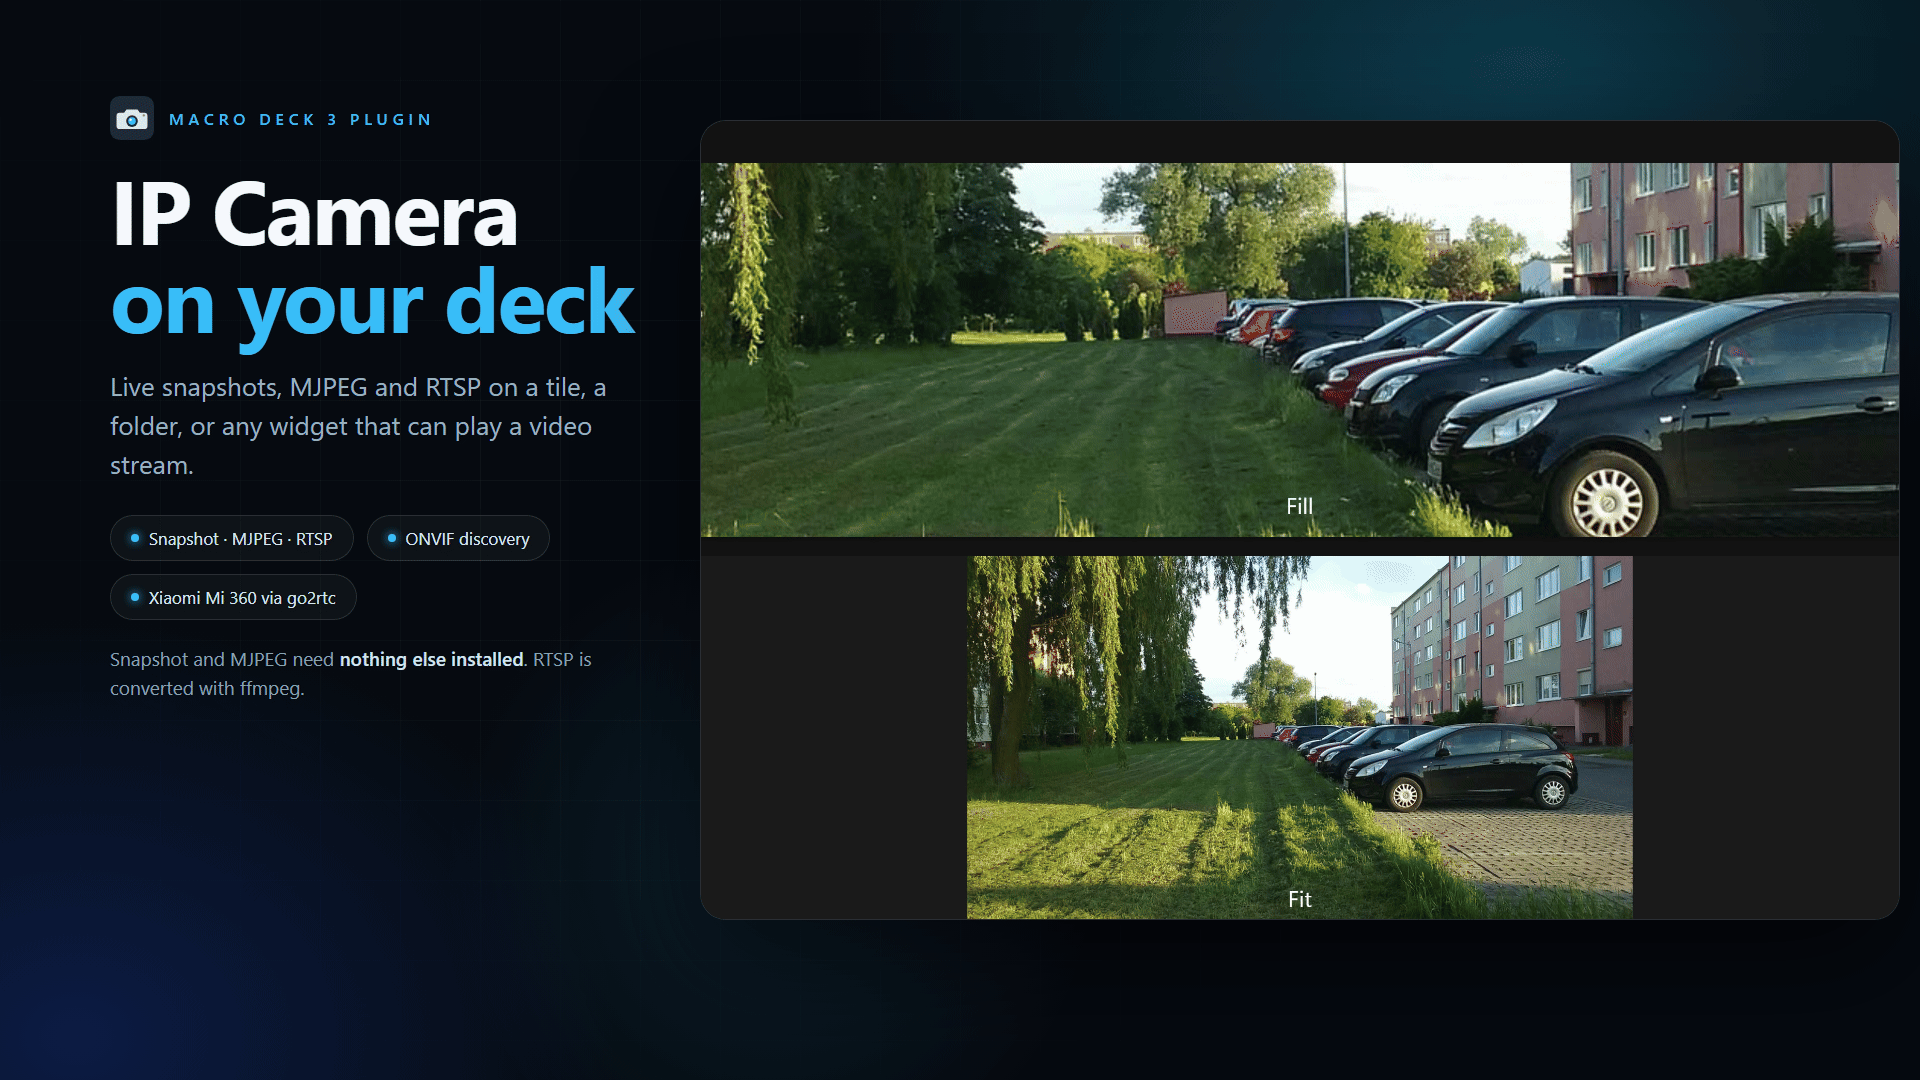
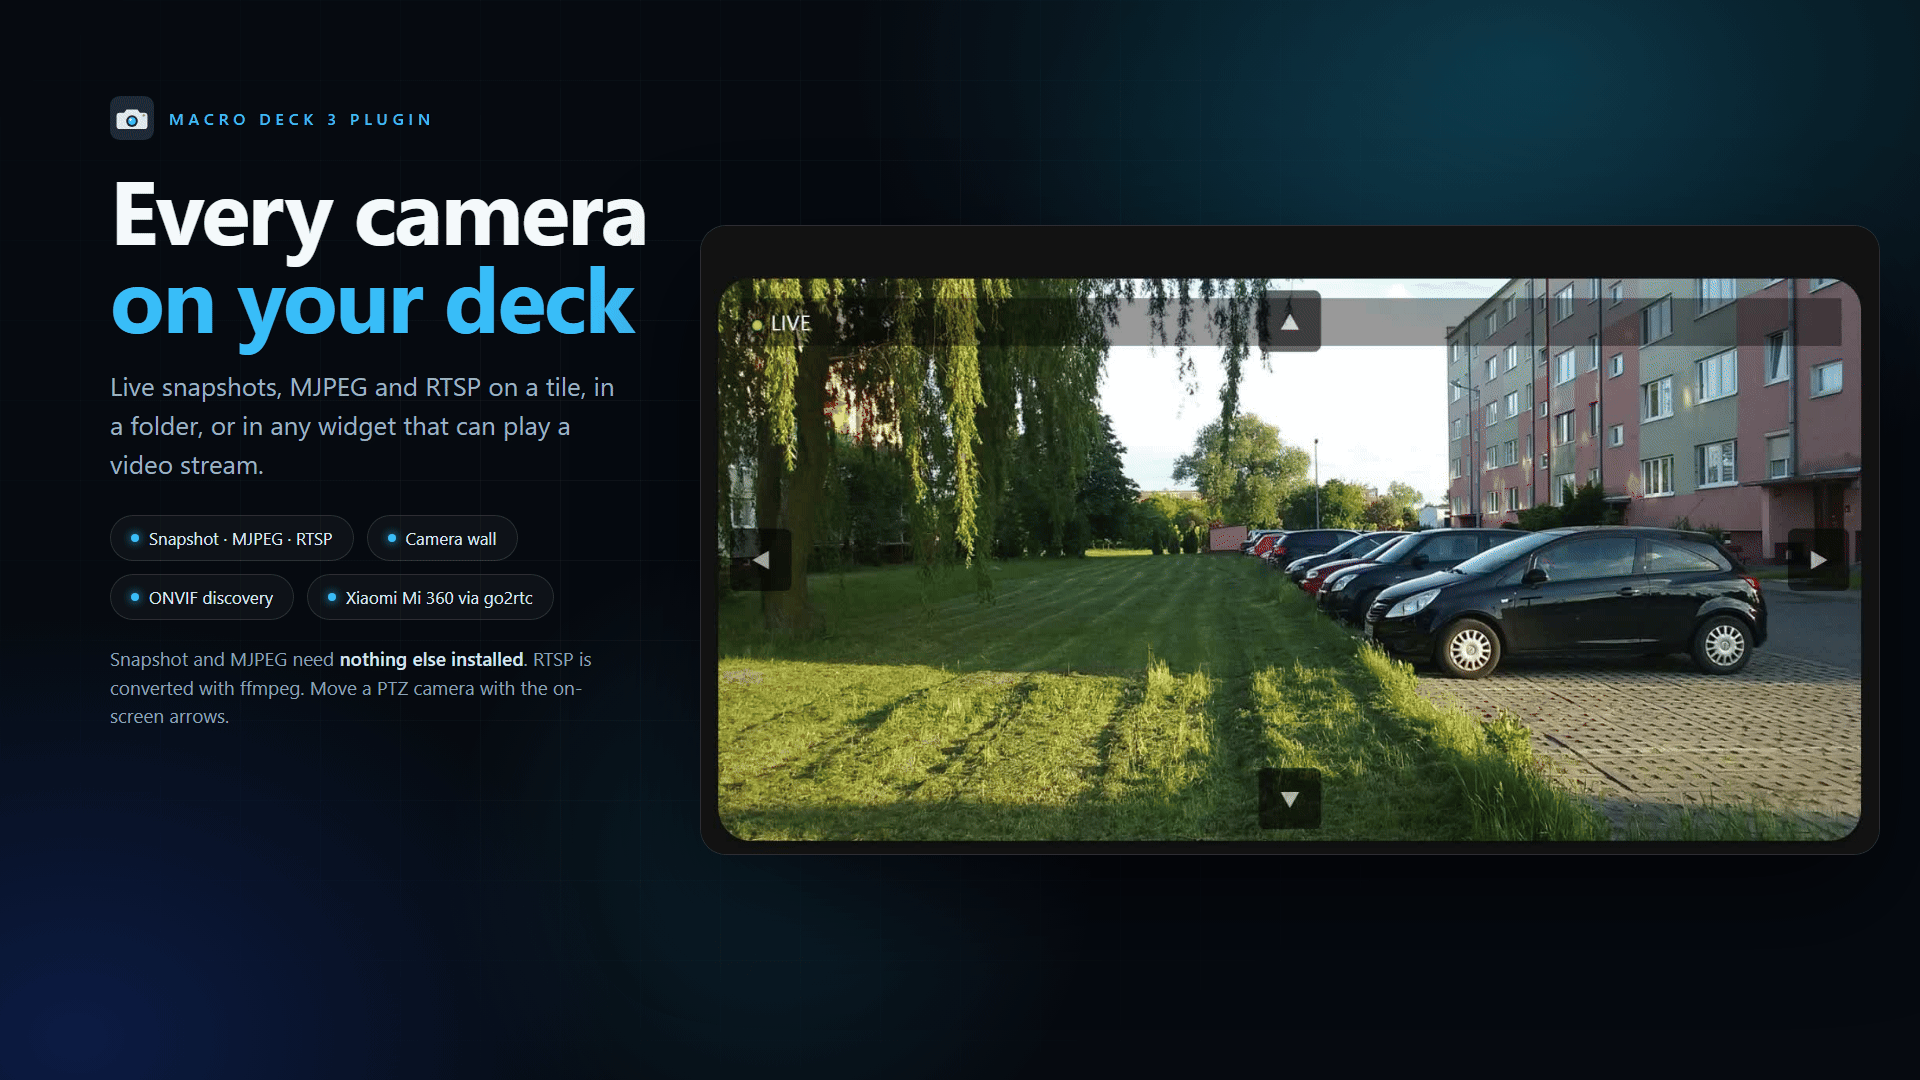
Refresh the Store copy and screenshots
The listing now covers the camera wall, split and four-camera tiles, movement arrows and the press script route, and drops the removed integration page. The screenshots are new captures of the camera tile, the enlarged window with arrows, a camera wall and a split tile, using the local stock test streams.

diff --git a/store/src/01-hero.html b/store/src/01-hero.html
@@ -12,18 +12,19 @@
 
 <div style="position:absolute;left:110px;top:96px">
   <div class="kicker"><img src="../../src/IpCamera/Assets/icon.svg" alt="">Macro Deck 3 plugin</div>
-  <h1>IP Camera<br><span class="accent">on your deck</span></h1>
-  <p class="sub" style="width:520px">Live snapshots, MJPEG and RTSP on a tile, a folder, or any widget that can play a video stream.</p>
+  <h1>Every camera<br><span class="accent">on your deck</span></h1>
+  <p class="sub" style="width:520px">Live snapshots, MJPEG and RTSP on a tile, in a folder, or in any widget that can play a video stream.</p>
   <div class="pills" style="width:540px">
     <span class="pill"><i></i>Snapshot &middot; MJPEG &middot; RTSP</span>
+    <span class="pill"><i></i>Camera wall</span>
     <span class="pill"><i></i>ONVIF discovery</span>
     <span class="pill"><i></i>Xiaomi Mi 360 via go2rtc</span>
   </div>
-  <p class="note" style="width:520px">Snapshot and MJPEG need <b>nothing else installed</b>. RTSP is converted with ffmpeg.</p>
+  <p class="note" style="width:520px">Snapshot and MJPEG need <b>nothing else installed</b>. RTSP is converted with ffmpeg. Move a PTZ camera with the on-screen arrows.</p>
 </div>
 
-<div class="shot" style="left:700px;top:120px;width:1200px;height:800px">
-  <img src="img/deck.jpg" alt="Two camera widgets on a Macro Deck deck, one filling its tile and one fitting the frame">
+<div class="shot" style="left:700px;top:225px;width:1180px;height:630px">
+  <img src="img/hero-crop.jpg" alt="A camera widget filling a Macro Deck tile, with a live status and movement arrows">
 </div>
 </body>
 </html>

diff --git a/store/src/03-modal.html b/store/src/03-modal.html
@@ -11,13 +11,13 @@
 
 <div style="position:absolute;left:110px;top:100px;width:460px">
   <div class="kicker"><img src="../../src/IpCamera/Assets/icon.svg" alt="">Large view</div>
-  <h1 class="compact">Tap to see<br><span class="accent">it larger</span></h1>
+  <h1 class="compact">Tap for<br><span class="accent">a closer look</span></h1>
   <p class="sub">A short press opens the same stream in Macro Deck's modal.</p>
-  <p class="note">Your own Short Press action still wins, and the tile keeps its live preview in the background.</p>
+  <p class="note">The window keeps the tile's movement arrows, so a PTZ camera stays controllable while you watch.</p>
 </div>
 
-<div class="shot" style="left:660px;top:105px;width:1150px;height:870px">
-  <img src="img/modal.jpg" alt="The camera stream opened in Macro Deck's modal over a dimmed deck">
+<div class="shot" style="left:660px;top:130px;width:1160px;height:812px">
+  <img src="img/modal.jpg" style="object-fit:contain" alt="The camera stream opened in Macro Deck's modal with movement arrows">
 </div>
 </body>
 </html>

diff --git a/store/src/05-four.html b/store/src/05-four.html
@@ -1,0 +1,23 @@
+<!DOCTYPE html>
+<html lang="en">
+<head>
+<meta charset="utf-8">
+<link rel="stylesheet" href="slides.css">
+</head>
+<body>
+<div class="bg"></div>
+<div class="grid"></div>
+<div class="glow" style="width:1000px;height:1000px;left:900px;top:-220px"></div>
+
+<div style="position:absolute;left:110px;top:100px;width:430px">
+  <div class="kicker"><img src="../../src/IpCamera/Assets/icon.svg" alt="">One tile</div>
+  <h1 class="compact">One, two<br><span class="accent">or four</span></h1>
+  <p class="sub">Split the tile, or show four cameras at once.</p>
+  <p class="note">Each cell has its own stream, status overlay and movement arrows. A press opens that cell's camera.</p>
+</div>
+
+<div class="shot" style="left:610px;top:110px;width:1210px;height:864px">
+  <img src="img/split-crop.jpg" alt="A Macro Deck camera widget split in two live camera cells with movement arrows">
+</div>
+</body>
+</html>

diff --git a/store/src/04-wall.html b/store/src/04-wall.html
@@ -1,0 +1,23 @@
+<!DOCTYPE html>
+<html lang="en">
+<head>
+<meta charset="utf-8">
+<link rel="stylesheet" href="slides.css">
+</head>
+<body>
+<div class="bg"></div>
+<div class="grid"></div>
+<div class="glow" style="width:1000px;height:900px;left:1050px;top:-200px"></div>
+
+<div style="position:absolute;left:110px;top:100px;width:520px">
+  <div class="kicker"><img src="../../src/IpCamera/Assets/icon.svg" alt="">Camera wall</div>
+  <h1 class="compact">Fill a whole<br><span class="accent">folder</span></h1>
+  <p class="sub">One camera edge to edge, or up to four in a wall, without placing widgets.</p>
+  <p class="note">The wall keeps the same arrows, live status and fill or fit choice as a tile.</p>
+</div>
+
+<div class="shot" style="left:690px;top:180px;width:1130px;height:758px">
+  <img src="img/wall-crop.jpg" alt="A camera filling a Macro Deck folder with movement arrows">
+</div>
+</body>
+</html>

diff --git a/store/src/02-setup.html b/store/src/02-setup.html
@@ -13,7 +13,7 @@
   <div class="kicker"><img src="../../src/IpCamera/Assets/icon.svg" alt="">Camera setup</div>
   <h1 class="compact">Add a camera<br><span class="accent">in a minute</span></h1>
   <p class="sub">Pick the source, paste the URL, and choose the frame rate and size.</p>
-  <p class="note">The setup fetches a live frame before it saves. A wrong host, a rejected password or an HTML page gets a <b>clear reason on the URL field</b>.</p>
+  <p class="note">The setup fetches a live frame before it saves. A wrong host, a rejected password or an HTML page gets a <b>clear reason on the URL field</b>. Movement controls and the Xiaomi token sit in the advanced step.</p>
 </div>
 
 <div class="shot" style="left:990px;top:40px;width:900px;height:1010px">

diff --git a/store/listing.md b/store/listing.md
@@ -8,8 +8,8 @@ IP Camera
 
 ## Short description
 
-Live IP camera tiles for Macro Deck: snapshot, MJPEG, RTSP and ONVIF, including the Xiaomi Mi 360
-through go2rtc.
+Live camera tiles and camera walls for Macro Deck: snapshot, MJPEG, RTSP and ONVIF, including the Xiaomi
+Mi 360 through go2rtc.
 
 ## Long description
 
@@ -36,19 +36,35 @@ of a tile that never plays.
 
 **Made for a deck**
 
-- Fill the tile or fit the whole frame.
+- One camera per tile, a split with two, or four cameras in one tile.
+- A camera wall that fills a whole folder with one camera or up to four.
+- Fill the cell or fit the whole frame.
 - A label, background, label colour, font and border through Macro Deck's standard appearance settings.
+- A live dot and the age of the last frame, or a reconnecting state when the camera drops out.
 - A short press opens the same stream in Macro Deck's modal.
-- Your own Short Press action wins over the default.
-- When a camera drops out, the tile says the camera is offline and reconnecting, and the integration
-  page offers Retry.
+
+**Move the camera from the deck**
+
+- Left, right, up and down arrows on each camera cell, with a transparency slider.
+- The enlarged window keeps the arrows, so a PTZ camera stays controllable while you watch.
+- Move, Stop and Night vision actions for ONVIF cameras and the Xiaomi Mi 360.
+- Macro Deck gives a tile press either to the controls in its tree or to its Short Press flow, never
+  both. The arrows therefore disable the tile's Short Press flow. To run actions and keep the arrows,
+  create a Macro Deck script and pick it as the widget's Press script; the plugin runs that script with
+  the pressed widget and the pressing client.
+
+**When a camera drops out**
+
+The tile says the camera is offline and reconnecting, and the plugin reports an integration issue with
+a Retry action. The stream recovers on its own when the camera answers again.
 
 **Xiaomi Mi 360**
 
 The Mi 360 does not expose RTSP or ONVIF. go2rtc can hold its P2P session and serve a normal MJPEG
 stream; point this plugin at that stream. Each connection needs an Internet round trip so go2rtc can
-fetch Xiaomi's encryption key. The video itself stays on the LAN. See the repository README for the
-go2rtc configuration.
+fetch Xiaomi's encryption key. The video itself stays on the LAN. Movement and night vision use the
+local miIO channel with the device token from Mi Home. See the repository README for the go2rtc
+configuration.
 
 **Requirements**
 
@@ -59,16 +75,17 @@ go2rtc configuration.
 **Network and privacy**
 
 The plugin connects only to the camera URLs you configure, plus a local go2rtc if you use one. It does
-not send camera data to any other service. The video relay listens on 127.0.0.1. Camera passwords are
-stored in Macro Deck's encrypted secret store. RTSP passwords are passed to ffmpeg in its command line,
-because RTSP has no separate credential option.
+not send camera data to any other service. The video relay listens on 127.0.0.1. Camera passwords and
+the Xiaomi token are stored in Macro Deck's secret store. RTSP passwords are passed to ffmpeg in its
+command line, because RTSP has no separate credential option.
 
 ## Tags
 
-camera, ip camera, rtsp, mjpeg, onvif, xiaomi, go2rtc, security camera, live view, video
+camera, ip camera, rtsp, mjpeg, onvif, xiaomi, go2rtc, security camera, live view, video, ptz, camera
+wall
 
 ## Links
 
 - Repository: https://github.com/dominic25/ItaiMarom.IpCameraPlugin
-- Support: the repository issue tracker once it exists
+- Support: https://github.com/dominic25/ItaiMarom.IpCameraPlugin/issues
 - Store: https://macro-deck.app/store/com.itaimarom.ip-camera

diff --git a/store/README.md b/store/README.md
@@ -5,11 +5,11 @@ the Store gallery renders them in.
 
 | File | Shows |
 | --- | --- |
-| `01-hero.png` | The deck with two camera widgets, one filling its tile and one fitting the whole frame, both with a label. |
+| `01-hero.png` | One camera filling a tile, with the live status and movement arrows. |
 | `02-setup.png` | The camera setup dialog with source type, stream URL and advanced options. |
-| `03-modal.png` | A short press opening the same stream in Macro Deck's modal. |
-| `04-integration.png` | The IP Camera integration page: ready cameras, actions, widget and video stream capabilities. |
-| `05-large-view.png` | A camera filling a folder, edge to edge. |
+| `03-modal.png` | The enlarged camera window, with the same movement arrows. |
+| `04-wall.png` | A camera wall filling a folder edge to edge. |
+| `05-four.png` | A split tile with two live camera cells, each with status and arrows. |
 
 ## Rebuilding
 
@@ -24,9 +24,8 @@ ffmpeg afterwards so each image stays under the 1 MB upload limit.
 
 ## Notes
 
-- Every piece of UI inside a screenshot panel is a real capture of Macro Deck 3.0.5 with the plugin
-  installed: the widget, the setup dialog, the modal and the integration page. The background, headline,
-  pills and the panel frame are presentation, not plugin UI.
+- Every piece of UI inside a screenshot panel is a real capture of Macro Deck's deck UI with the test
+  plugin installed. The background, headline, pills and panel frame are presentation, not plugin UI.
 - The camera pictures are stock photographs served from a local MJPEG test server. No real home,
   street, person or user camera appears in them.
 - The only generated asset in the package is the plugin icon, which the manifest declares.

diff --git a/README.md b/README.md
@@ -24,8 +24,8 @@ camera picture is a local test stream.
 
 | | |
 | --- | --- |
-| ![The camera setup dialog with a stream URL and the connection check](store/02-setup.png) | ![A short press opens the camera in Macro Deck's modal](store/03-modal.png) |
-| ![The IP Camera integration page with three ready cameras](store/04-integration.png) | ![A camera filling a folder](store/05-large-view.png) |
+| ![The camera setup dialog with a stream URL and the connection check](store/02-setup.png) | ![A short press opens the camera in Macro Deck's modal with movement arrows](store/03-modal.png) |
+| ![A camera wall filling a Macro Deck folder](store/04-wall.png) | ![A split camera tile with movement arrows](store/05-four.png) |
 
 ## What it adds to Macro Deck
 
@@ -44,7 +44,7 @@ camera picture is a local test stream.
   snapshot address. Stream quality can be a Low, Balanced or High preset, or Custom with your own frame
   rate and maximum width.
 - **Offline feedback**: a camera that drops out shows "The camera is offline. Reconnecting." on its
-  widget, and the integration page offers a Retry action.
+  widget, and the plugin reports an integration issue with a Retry action.
 - **A Save snapshot action**: writes the pressed camera's current picture as a JPEG. The folder is set
   per action; empty means `Pictures\IP Camera`.
 - **A Show camera action**: opens a camera in the enlarged modal. It can name its camera, so a plain
